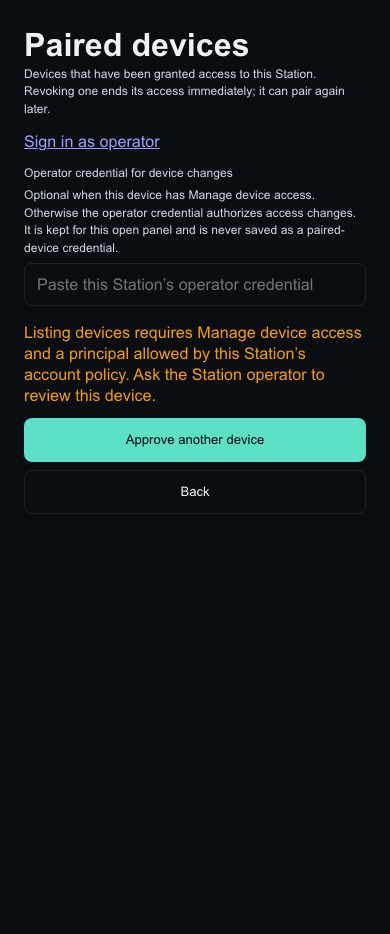
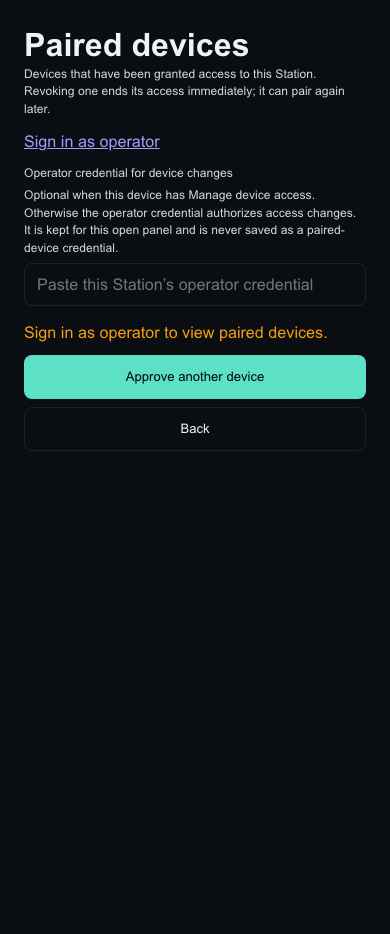
docs: refresh operator session refusal contract and captures

Changed region(s): [[0.0615, 0.3415, 0.9538, 0.5278]]

diff --git a/docs/reference/api.md b/docs/reference/api.md
@@ -4848,8 +4848,9 @@ The server enforces 15 minutes without operator activity and a 12-hour
 absolute deadline. User-initiated reads extend idle time; requests marked
 `X-Station-Background-Refresh: 1` validate expiry without extending it. Device or passkey revocation, environment reset and operator
 credential rotation end the session. An expired, mismatched or invalid session
-returns 401 `operator_session_required` when ordinary bearer/Device admission
-also fails. Ordinary admission runs first, independently of the operator cookie.
+returns 403 `operator_session_required` with `signInUrl` when an independently
+admitted Device remains valid. It returns 401 only when no Device passes
+admission. Ordinary admission runs first, independently of the operator cookie.
 The session binding still requires device verification, alias admission and
 account-bound policy. A refused inventory read can include `signInUrl`
 when remote sign-in is configured. Same-origin plugin code can make these reads
